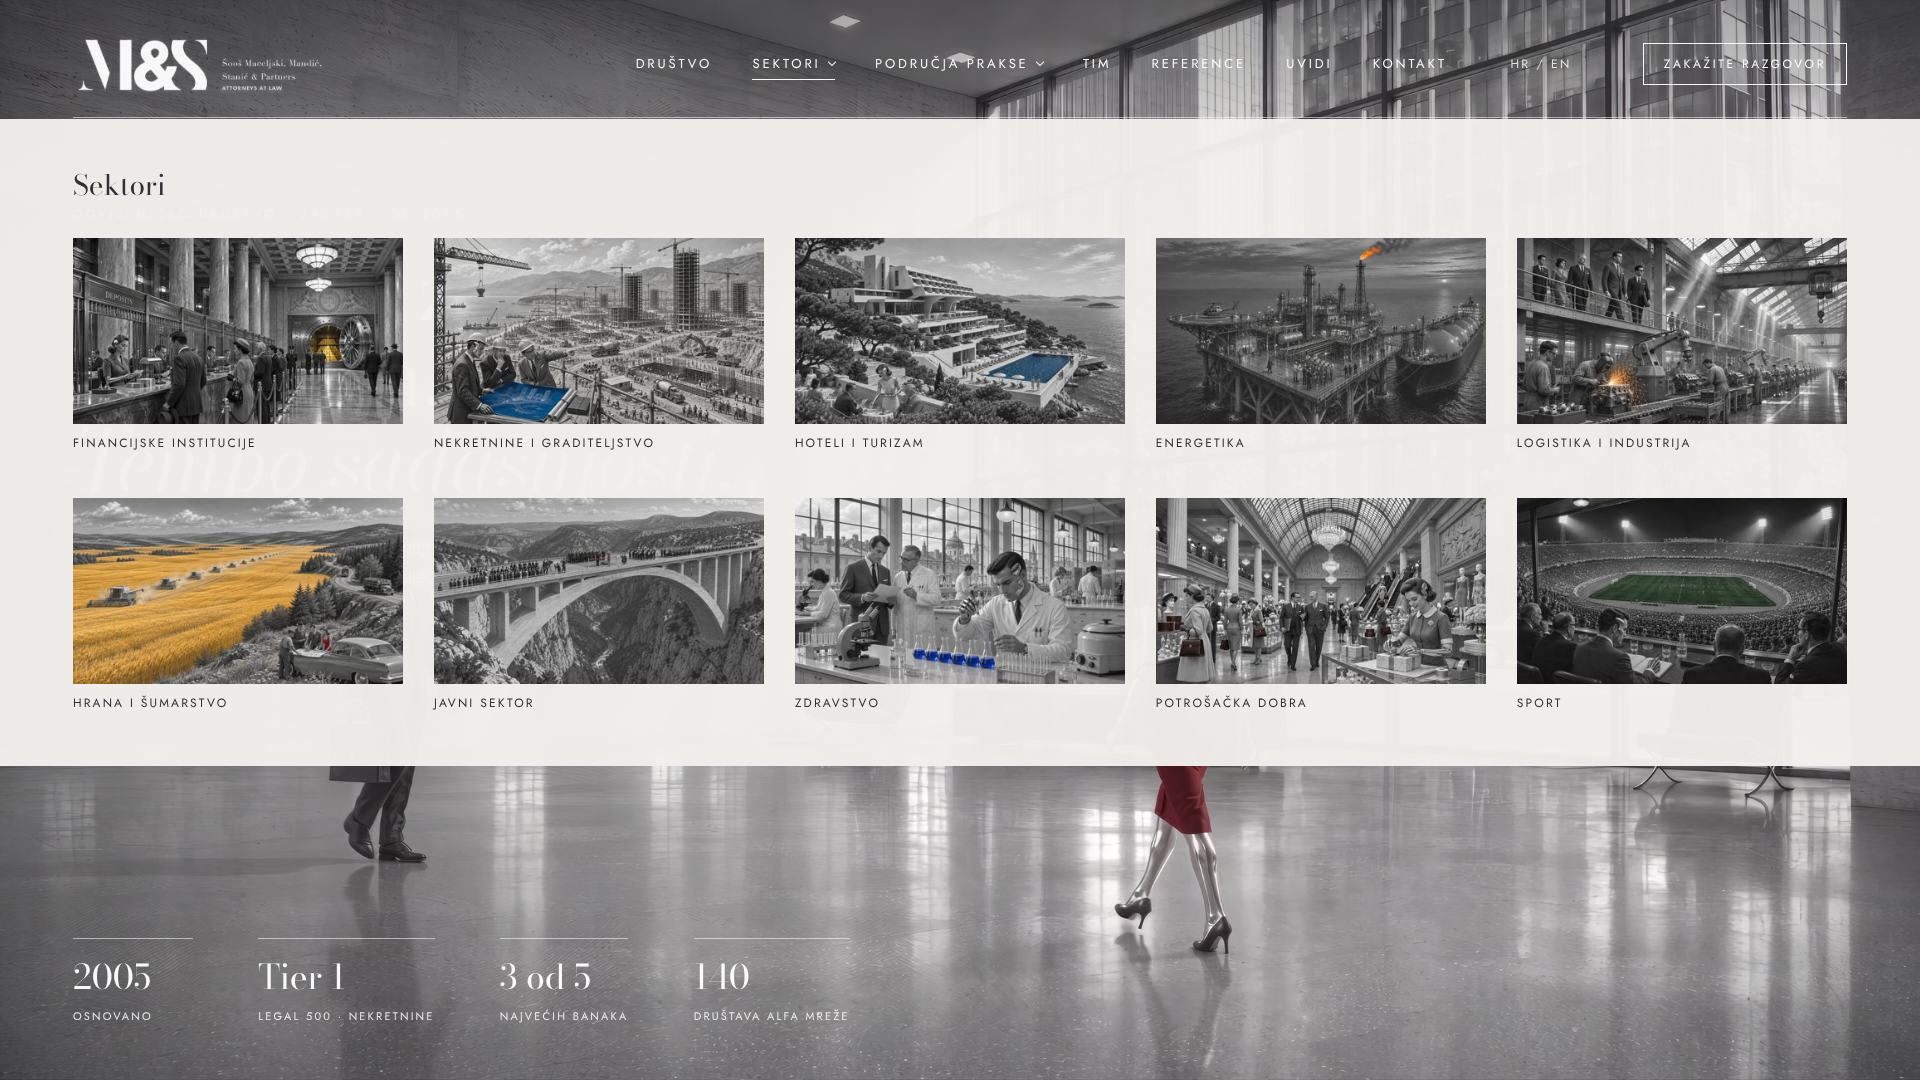
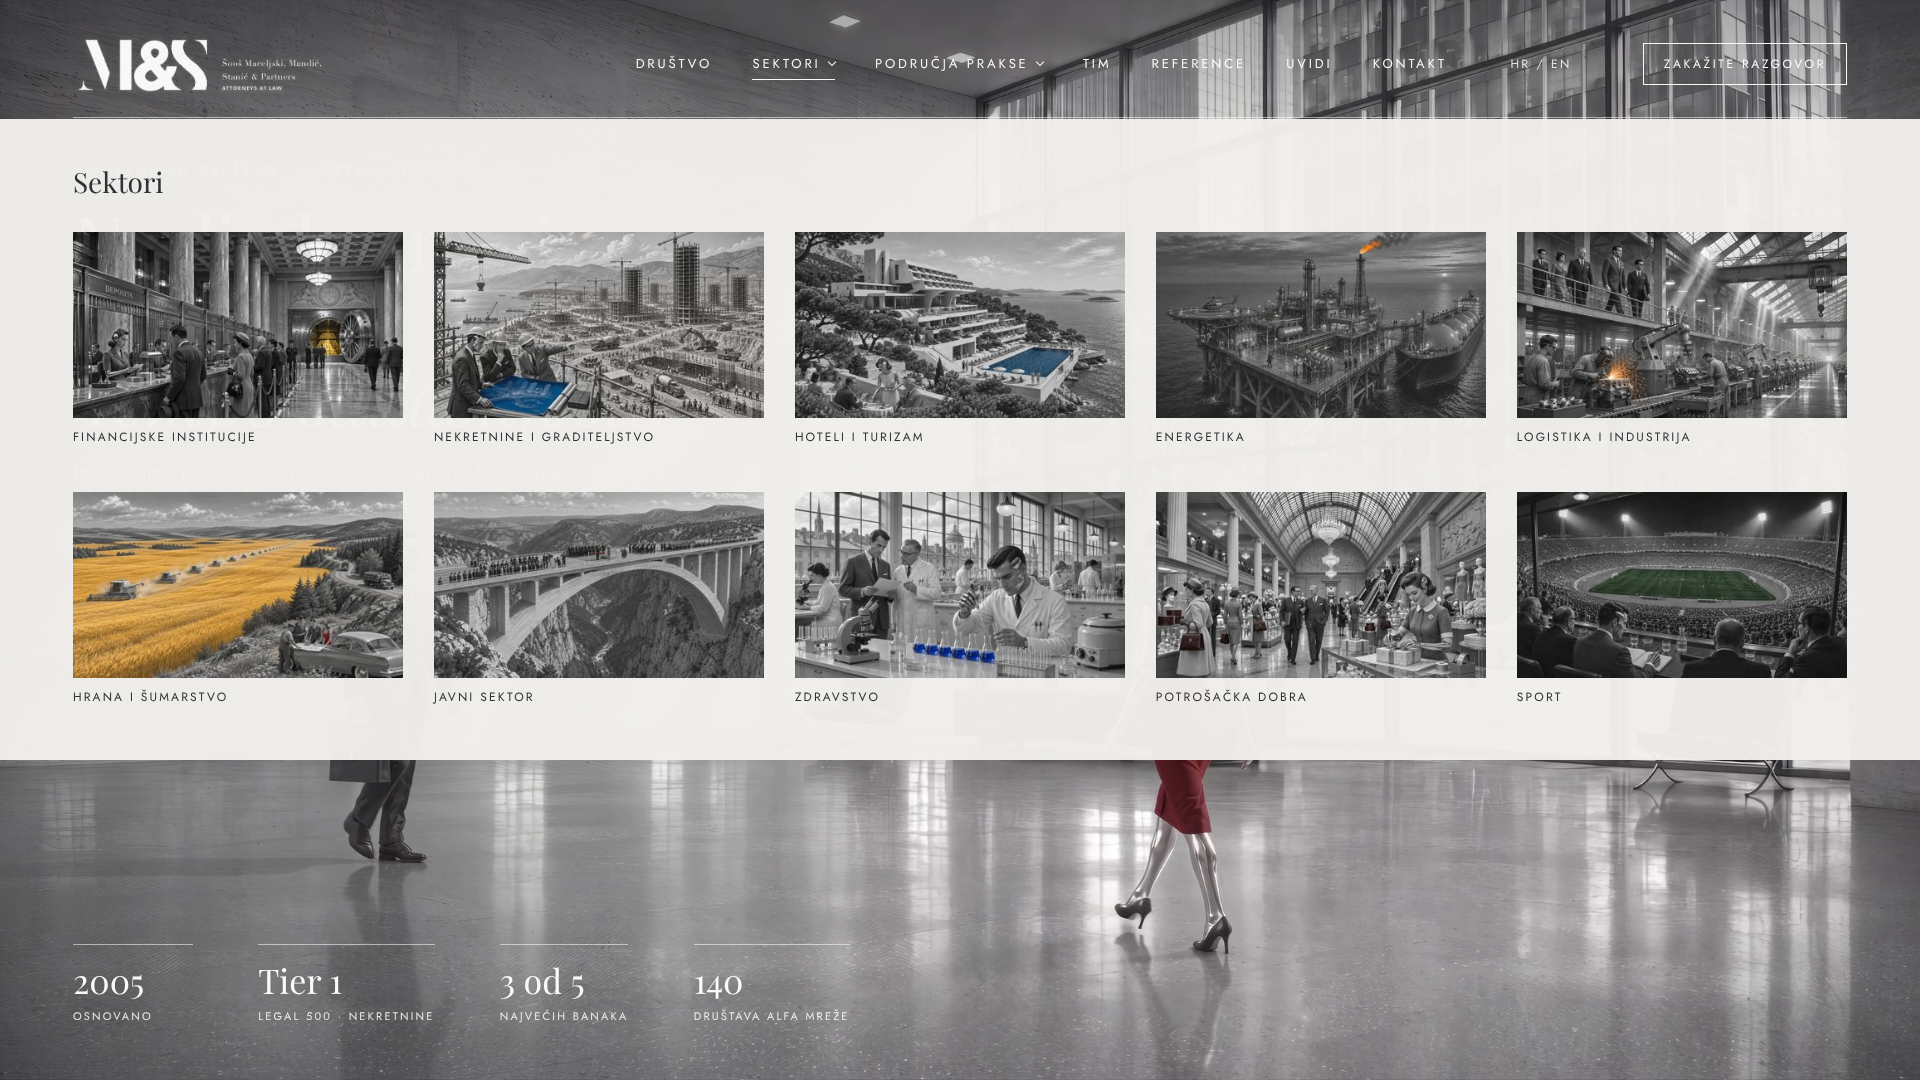
Mockup: approved headline, Playfair Display, text clear of figures
Claude-Session: https://claude.ai/code/session_01EAv5Qm6mDQ8RZES4ATYqNi

diff --git a/website/mockup/index.html b/website/mockup/index.html
@@ -5,7 +5,7 @@
 <meta name="viewport" content="width=device-width, initial-scale=1">
 <title>MS Partners — naslovnica (maketa)</title>
 <link rel="preconnect" href="https://fonts.googleapis.com">
-<link href="https://fonts.googleapis.com/css2?family=Bodoni+Moda:ital,opsz,wght@0,6..96,400;0,6..96,500;1,6..96,400&family=Jost:wght@300;400;500&display=swap" rel="stylesheet">
+<link href="https://fonts.googleapis.com/css2?family=Playfair+Display:ital,wght@0,400;0,500;1,400&family=Jost:wght@300;400;500&display=swap" rel="stylesheet">
 <style>
   :root{
     --ink:#2F3134; --paper:#F1F0EC; --red:#E3192C;
@@ -29,20 +29,20 @@
   nav a.on{border-bottom:1px solid var(--white)}
   .lang{font-size:12px;letter-spacing:.2em;opacity:.85;margin-left:1.2vw}
   .cta{margin-left:1.6vw;border:1px solid var(--white);padding:11px 20px;font-size:12px;letter-spacing:.22em;text-transform:uppercase;color:var(--white);text-decoration:none}
-  .copy{position:absolute;left:3.8vw;top:19vh;max-width:40vw}
+  .copy{position:absolute;left:3.8vw;top:15vh;max-width:40vw}
   .eyebrow{font-size:12px;letter-spacing:.32em;text-transform:uppercase;opacity:.9}
-  h1{font-family:"Bodoni Moda",Didot,serif;font-weight:400;font-size:clamp(40px,4.4vw,84px);line-height:1.02;margin:2.2vh 0 2.6vh;letter-spacing:-.01em}
+  h1{font-family:"Playfair Display",Didot,serif;font-weight:400;font-size:clamp(38px,4vw,76px);line-height:1.02;margin:2vh 0 2.2vh;letter-spacing:-.01em}
   h1 em{font-style:italic}
   .lead{font-size:clamp(15px,1.15vw,19px);line-height:1.6;font-weight:300;max-width:26vw;opacity:.95}
   .facts{position:absolute;left:3.8vw;bottom:5vh;display:flex;gap:3.4vw}
   .facts div{border-top:1px solid var(--line);padding-top:12px;min-width:120px}
-  .facts b{display:block;font-family:"Bodoni Moda",serif;font-weight:400;font-size:34px}
+  .facts b{display:block;font-family:"Playfair Display",serif;font-weight:400;font-size:34px}
   .facts span{font-size:11px;letter-spacing:.2em;text-transform:uppercase;opacity:.9}
   /* mega menu */
   .mega{position:absolute;top:calc(3.2vh + 58px + 2.4vh + 1px);left:0;right:0;
     background:rgba(241,240,236,.97);color:var(--ink);padding:4vh 3.8vw 5vh;display:none}
   .mega.show{display:block}
-  .mega h4{font-family:"Bodoni Moda",serif;font-weight:400;font-size:28px;margin-bottom:3vh}
+  .mega h4{font-family:"Playfair Display",serif;font-weight:400;font-size:28px;margin-bottom:3vh}
   .grid{display:grid;grid-template-columns:repeat(5,1fr);gap:2.4vw 1.6vw}
   .item img{width:100%;aspect-ratio:16/9;object-fit:cover;display:block;filter:contrast(1.02)}
   .item p{font-size:12px;letter-spacing:.18em;text-transform:uppercase;margin-top:10px}
